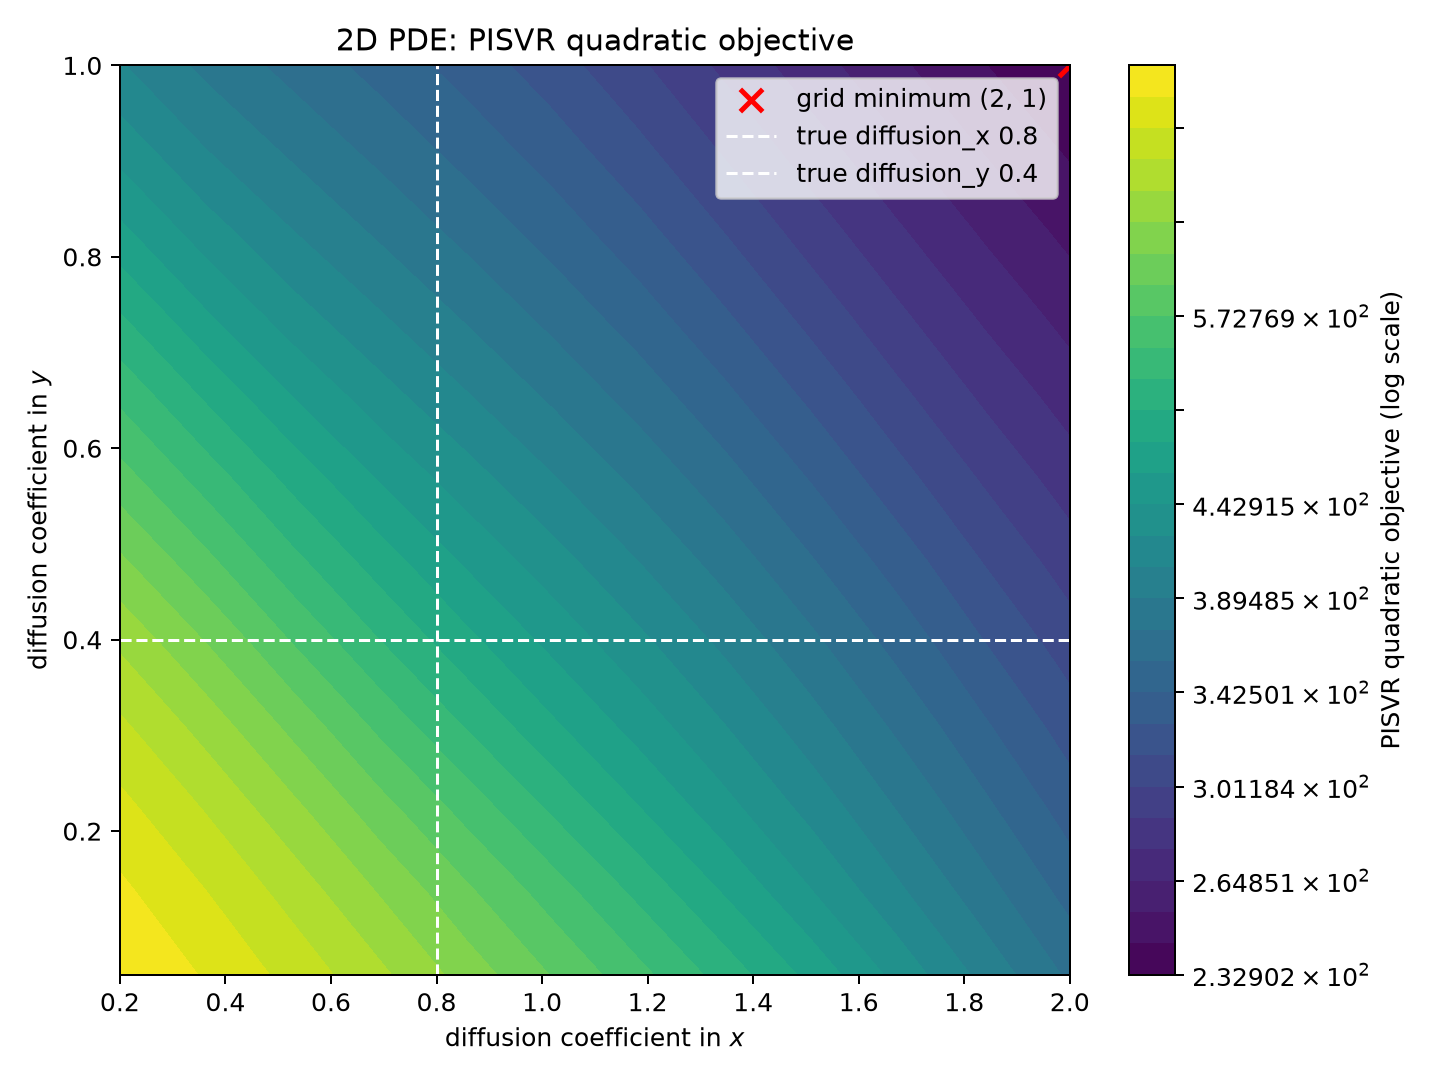
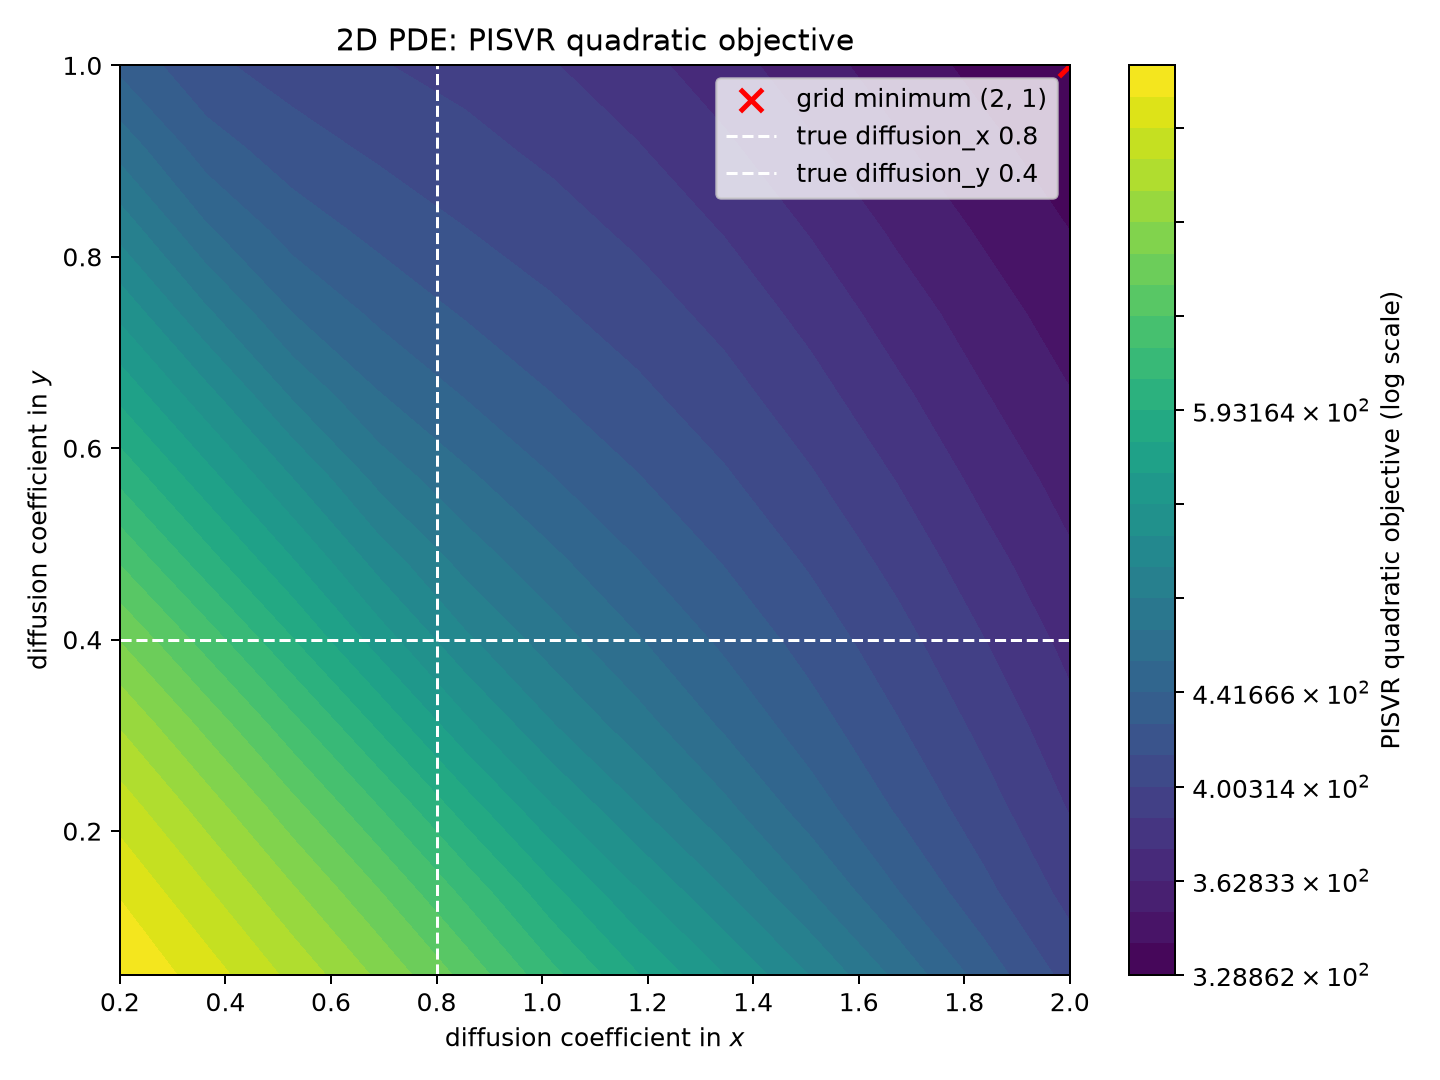
added some test files

diff --git a/pisvr.py b/pisvr.py
@@ -182,6 +182,58 @@ class PISVR:
             fold_mses.append(mean_squared_error)
         return jnp.mean(jnp.array(fold_mses))
 
+    def forward_pass_collocation_mse(self, params):
+        """Weighted data + PDE-residual objective: lambda_data=C1, lambda_phys=C2."""
+        if self.optimize_pde_hyperparams:
+            pde_hyperparams = params[:len(self.pde_hyperparams)]
+        else:
+            pde_hyperparams = self.pde_hyperparam_values
+
+        if "lam" in self.svr_hyperparams:
+            lam = params[self.lam_index]
+        else:
+            lam = self.lam
+        if "C1" in self.svr_hyperparams:
+            C1 = params[self.C1_index]
+        else:
+            C1 = self.C1
+        if "C2" in self.svr_hyperparams:
+            C2 = params[self.C2_index]
+        else:
+            C2 = self.C2
+
+        n_data, n_phys = len(self.X_data), len(self.X_phys)
+        layer_key = (n_data, n_phys)
+        if not hasattr(self, "_collocation_layer") or self._collocation_layer is None:
+            self._collocation_layer = {}
+        if layer_key not in self._collocation_layer:
+            self._collocation_layer[layer_key] = self.define_cvxpylayer(n_data, n_phys)
+
+        P = self.P(self.X_data, self.X_phys, lam, pde_hyperparams)
+        Lt = jnp.linalg.cholesky(P + 1e-6 * jnp.eye(P.shape[0])).T
+        q = self.q(self.y_data, self.X_phys, self.eps1, self.eps2)
+        A_eq, b = self.eq(n_data, n_phys)
+        lb, ub = self.bounds(n_data, n_phys, C1, C2)
+        x, mu = self._collocation_layer[layer_key](Lt, q, A_eq, b, lb, ub)
+        alpha = x[:n_data] - x[n_data:2 * n_data]
+        beta = x[2 * n_data:2 * n_data + n_phys] - x[2 * n_data + n_phys:]
+
+        data_pred = (
+            self.RBF(self.X_data, self.X_data, lam, pde_hyperparams) @ alpha
+            + self.Lx2RBF(self.X_data, self.X_phys, lam, pde_hyperparams) @ beta
+            + mu[0]
+        )
+        data_mse = jnp.mean((self.y_data - data_pred) ** 2)
+
+        pde_err = (
+            self.Lx1RBF(self.X_phys, self.X_data, lam, pde_hyperparams) @ alpha
+            + self.Lx1Lx2RBF(self.X_phys, self.X_phys, lam, pde_hyperparams) @ beta
+            + self.L1 * mu[0]
+            - self.f_values(self.X_phys)
+        )
+        pde_mse = jnp.mean(pde_err ** 2)
+        return 100.0 * data_mse + 1.0 * pde_mse
+
     def fit_cvxpylayer_bfgs_qp(self, X_data, y_data, X_phys):
         self.X_data = jnp.asarray(X_data)
         self.y_data = jnp.asarray(y_data)
@@ -286,6 +338,81 @@ class PISVR:
                 self.pde_hyperparam_values = optimized_values
                 self.pde_hyperparams = dict(zip(self.pde_hyperparam_sym, optimized_values))
             return self.fit(self.X_data, self.y_data, self.X_phys)
+
+    def fit_cvxpylayer_bfgs_collocation(
+        self, X_data, y_data, X_phys, optimize_pde_hyperparams=False, svr_hyperparams=None,
+    ):
+        """Optimize the collocation MSE objective with L-BFGS-B without cross-validation."""
+        self.optimize_pde_hyperparams = optimize_pde_hyperparams
+        self.svr_hyperparams = svr_hyperparams
+
+        if svr_hyperparams is None and not optimize_pde_hyperparams:
+            raise ValueError("No hyperparameters provided for optimization.")
+
+        self.X_data = jnp.asarray(X_data)
+        self.y_data = jnp.asarray(y_data)
+        self.X_phys = jnp.asarray(X_phys)
+
+        x0 = []
+        bounds = []
+        if optimize_pde_hyperparams:
+            if self.pde_hyperparams is None:
+                raise ValueError("PDE hyperparameters are not defined. Cannot optimize them.")
+            x0.extend(self.pde_hyperparams.values())
+            bounds.extend([(None, None)] * len(self.pde_hyperparams))
+
+        self.lam_index = None
+        self.C1_index = None
+        self.C2_index = None
+        if svr_hyperparams is not None:
+            if "lam" in svr_hyperparams:
+                self.lam_index = len(x0)
+                x0.append(self.lam)
+                bounds.append((1e-6, None))
+            if "C1" in svr_hyperparams:
+                self.C1_index = len(x0)
+                x0.append(self.C1)
+                bounds.append((0.0, None))
+            if "C2" in svr_hyperparams:
+                self.C2_index = len(x0)
+                x0.append(self.C2)
+                bounds.append((0.0, None))
+
+        n_data, n_phys = len(self.X_data), len(self.X_phys)
+        self.layers = [self.define_cvxpylayer(n_data, n_phys)]
+        self._collocation_layer = {(n_data, n_phys): self.layers[0]}
+
+        print(
+            "Starting collocation-only BFGS optimization from x0; "
+            f"parameters={x0}, bounds={bounds}"
+        )
+        result = minimize(
+            self.forward_pass_collocation_mse,
+            x0=np.asarray(x0, dtype=float),
+            method="L-BFGS-B",
+            bounds=bounds,
+            jac=jax.grad(self.forward_pass_collocation_mse, argnums=(0,)),
+        )
+        if not np.isfinite(result.fun):
+            raise RuntimeError("Collocation-only BFGS optimization did not produce a finite objective value.")
+
+        print(
+            f"Collocation BFGS result: MSE={result.fun:.6g}, success={result.success}: "
+            f"{result.message}"
+        )
+
+        x = result.x
+        if self.lam_index is not None:
+            self.lam = x[self.lam_index]
+        if self.C1_index is not None:
+            self.C1 = x[self.C1_index]
+        if self.C2_index is not None:
+            self.C2 = x[self.C2_index]
+        if optimize_pde_hyperparams:
+            optimized_values = list(map(float, x[:len(self.pde_hyperparams)]))
+            self.pde_hyperparam_values = optimized_values
+            self.pde_hyperparams = dict(zip(self.pde_hyperparam_sym, optimized_values))
+        return self.fit(self.X_data, self.y_data, self.X_phys)
 
     def fit_cvxpylayer_gradient_descent(
         self, X_data, y_data, X_phys, n_splits=10,

diff --git a/two_pde_hyperparam_loss_landscape.py b/two_pde_hyperparam_loss_landscape.py
@@ -50,8 +50,8 @@ def make_problem():
     )
 
     rng = np.random.default_rng(42)
-    X_data = rng.uniform(0.0, np.pi, size=(24, 2))
-    y_data = exact_solution(X_data) + 0.05 * rng.standard_normal(len(X_data))
+    X_data = rng.uniform(0.0, np.pi, size=(60, 2))
+    y_data = exact_solution(X_data)
 
     # Enforce the homogeneous Dirichlet boundary condition by adding zero-valued
     # samples on the square boundary x=0, x=pi, y=0, and y=pi.
@@ -74,9 +74,9 @@ def make_problem():
     model = PISVR(
         m=2,
         lam=0.3,
-        eps1=0.02,
+        eps1=0.01,
         C1=10.0,
-        eps2=0.01,
+        eps2=0.0,
         C2=10.0,
         pde=pde,
     )
@@ -118,7 +118,7 @@ def plot_loss_landscapes():
     diffusion_x_values = np.linspace(0.2, 2.0, 12)
     diffusion_y_values = np.linspace(0.05, 1.0, 12)
     qp_objective = np.empty((len(diffusion_x_values), len(diffusion_y_values)))
-    cv_mse = np.empty_like(qp_objective)
+    collocation_mse = np.empty_like(qp_objective)
 
     candidates = [
         (float(dx), float(dy))
@@ -133,13 +133,13 @@ def plot_loss_landscapes():
         model.pde_hyperparams = dict(zip(model.pde_hyperparam_sym, model.pde_hyperparam_values))
         model.fit(model.X_data, model.y_data, model.X_phys)
         qp_objective[i, j] = model.obj
-        cv_mse[i, j] = float(model.forward_pass(params))
+        collocation_mse[i, j] = float(model.forward_pass_collocation_mse(params))
 
     x_grid, y_grid = np.meshgrid(diffusion_x_values, diffusion_y_values, indexing="ij")
 
     for title, values, filename, show_traj in [
         ("PISVR quadratic objective", qp_objective, "loss_landscape_2param_qp.png", False),
-        (f"{n_splits}-fold CV MSE", cv_mse, "loss_landscape_2param_cv_mse.png", True),
+        ("collocation MSE", collocation_mse, "loss_landscape_2param_collocation_mse.png", True),
     ]:
         minimum_index = np.unravel_index(np.argmin(values), values.shape)
         best_x = float(diffusion_x_values[minimum_index[0]])
@@ -183,19 +183,19 @@ def plot_loss_landscapes():
             ]
             optimization_runs = []
             for start in optimization_starts:
-                trajectory = [(start.copy(), float(model.forward_pass(start)))]
+                trajectory = [(start.copy(), float(model.forward_pass_collocation_mse(start)))]
 
                 def record_step(params, path=trajectory):
                     params = np.asarray(params, dtype=float).copy()
-                    loss = float(model.forward_pass(params))
+                    loss = float(model.forward_pass_collocation_mse(params))
                     path.append((params, loss))
 
                 result = minimize(
-                    model.forward_pass,
+                    model.forward_pass_collocation_mse,
                     x0=np.asarray(start, dtype=float),
                     method="L-BFGS-B",
                     bounds=parameter_bounds,
-                    jac=jax.grad(model.forward_pass, argnums=0),
+                    jac=jax.grad(model.forward_pass_collocation_mse, argnums=0),
                     callback=record_step,
                     options={"maxls": 10},
                 )
@@ -213,7 +213,7 @@ def plot_loss_landscapes():
                     marker="o",
                     markersize=3.5,
                     markeredgecolor="black",
-                    label=f"run {run_index} (CV MSE={final_loss:.3g})",
+                    label=f"run {run_index} (collocation MSE={final_loss:.3g})",
                     zorder=5,
                 )
                 ax.scatter(*path[0], color=color, edgecolor="black", marker="s", s=48, zorder=6)
@@ -254,15 +254,15 @@ def plot_solution_comparison():
 
     diffusion_x_values = np.linspace(0.2, 2.0, 12)
     diffusion_y_values = np.linspace(0.05, 1.0, 12)
-    cv_mse = np.empty((len(diffusion_x_values), len(diffusion_y_values)))
+    collocation_mse = np.empty((len(diffusion_x_values), len(diffusion_y_values)))
     for i, dx in enumerate(diffusion_x_values):
         for j, dy in enumerate(diffusion_y_values):
             params = np.asarray([dx, dy], dtype=float)
             model.pde_hyperparam_values = [float(dx), float(dy)]
             model.pde_hyperparams = dict(zip(model.pde_hyperparam_sym, model.pde_hyperparam_values))
-            cv_mse[i, j] = float(model.forward_pass(params))
+            collocation_mse[i, j] = float(model.forward_pass_collocation_mse(params))
 
-    best_idx = np.unravel_index(np.argmin(cv_mse), cv_mse.shape)
+    best_idx = np.unravel_index(np.argmin(collocation_mse), collocation_mse.shape)
     optimized_params = np.asarray([diffusion_x_values[best_idx[0]], diffusion_y_values[best_idx[1]]], dtype=float)
 
     solution_axis = np.linspace(0.0, np.pi, 60)

diff --git a/test_pde_hyperparams.py b/test_pde_hyperparams.py
@@ -1,7 +1,57 @@
 import numpy as np
 import sympy as sp
+from sklearn.model_selection import KFold
 
 from pisvr import PDE, PISVR
+
+
+def test_collocation_objective_uses_full_data_shape():
+    diffusion_x = sp.Symbol("diffusion_x", real=True)
+    diffusion_y = sp.Symbol("diffusion_y", real=True)
+
+    def operator(expr, variables, coefficients):
+        return coefficients[0] * sp.diff(expr, variables[0], 2) + coefficients[1] * sp.diff(expr, variables[1], 2)
+
+    def exact_solution(points):
+        x, y = points[:, 0], points[:, 1]
+        return np.sin(x) * np.sin(y)
+
+    pde = PDE(
+        operator,
+        lambda point: -(0.8 + 0.4) * np.sin(point[0]) * np.sin(point[1]),
+        hyperparams={diffusion_x: 0.8, diffusion_y: 0.4},
+    )
+    model = PISVR(
+        m=2,
+        lam=0.7,
+        eps1=0.02,
+        C1=10.0,
+        eps2=0.01,
+        C2=10.0,
+        pde=pde,
+    )
+
+    rng = np.random.default_rng(7)
+    X_data = rng.uniform(0.0, np.pi, size=(22, 2))
+    y_data = exact_solution(X_data)
+    phys_axis = np.linspace(0.0, np.pi, 6)
+    X_phys = np.column_stack([axis.ravel() for axis in np.meshgrid(phys_axis, phys_axis)])
+    model.X_data = np.asarray(X_data)
+    model.y_data = np.asarray(y_data)
+    model.X_phys = np.asarray(X_phys)
+    model.optimize_pde_hyperparams = True
+    model.svr_hyperparams = []
+    model.lam_index = None
+    model.C1_index = None
+    model.C2_index = None
+    model.split = list(KFold(n_splits=5, shuffle=True, random_state=42).split(model.X_data))
+    model.layers = [
+        model.define_cvxpylayer(len(train_idx), len(model.X_phys))
+        for train_idx, _ in model.split
+    ]
+
+    value = float(model.forward_pass_collocation_mse(np.asarray([0.8, 0.4], dtype=float)))
+    assert np.isfinite(value)
 
 
 def test_fixed_pde_parameter():
